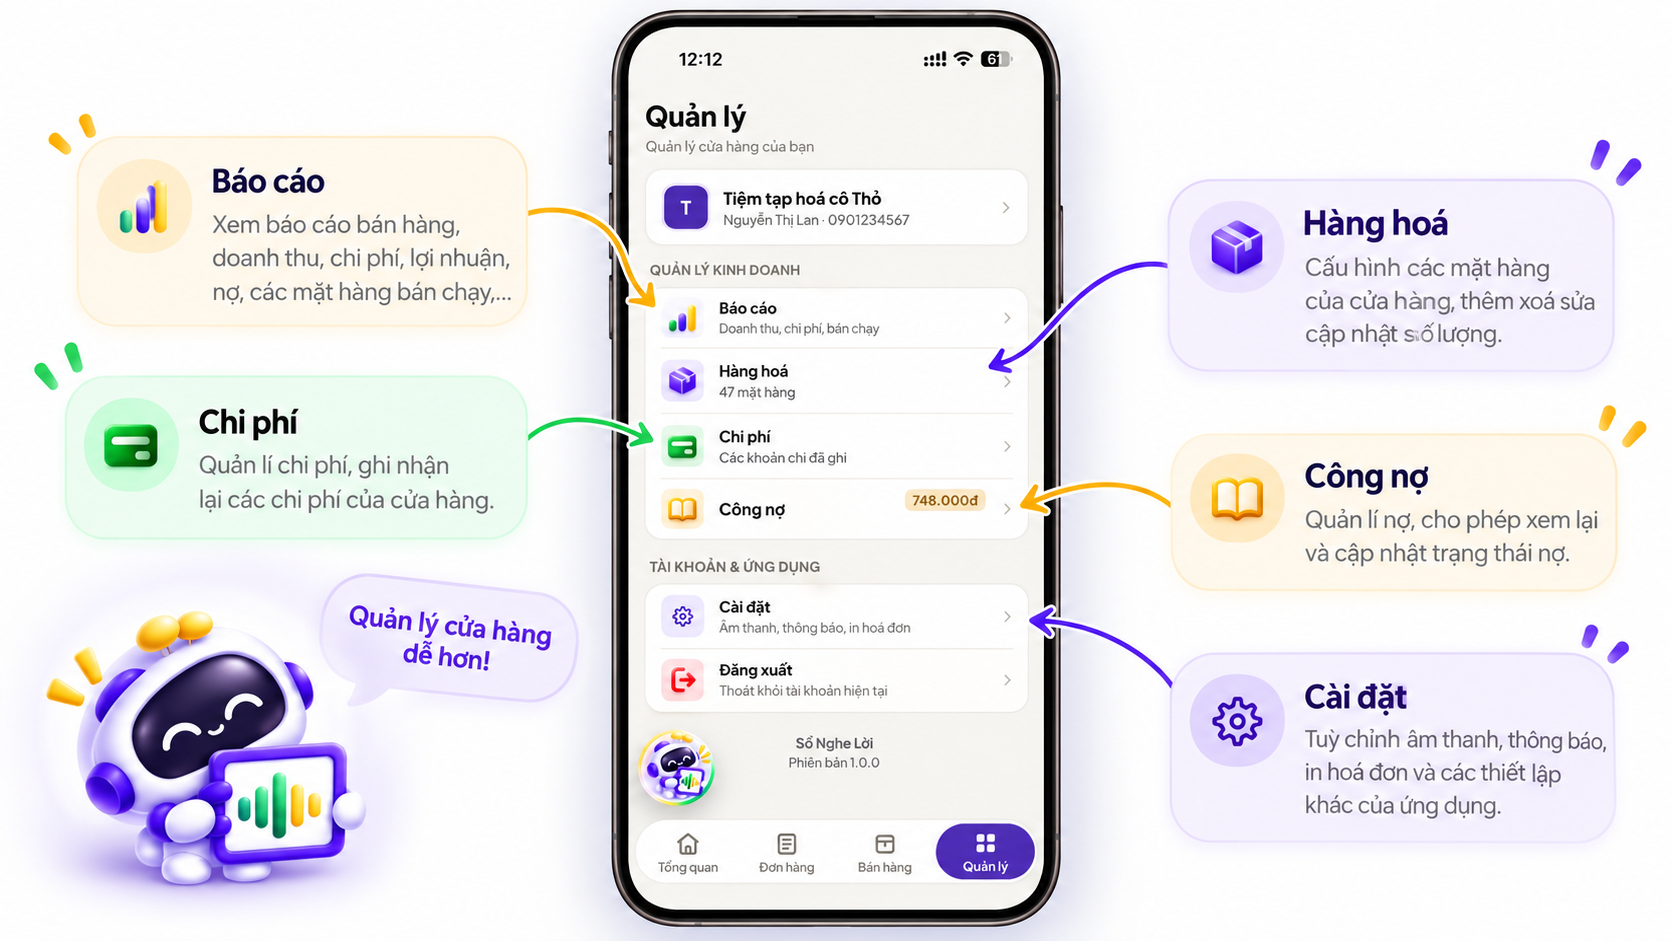
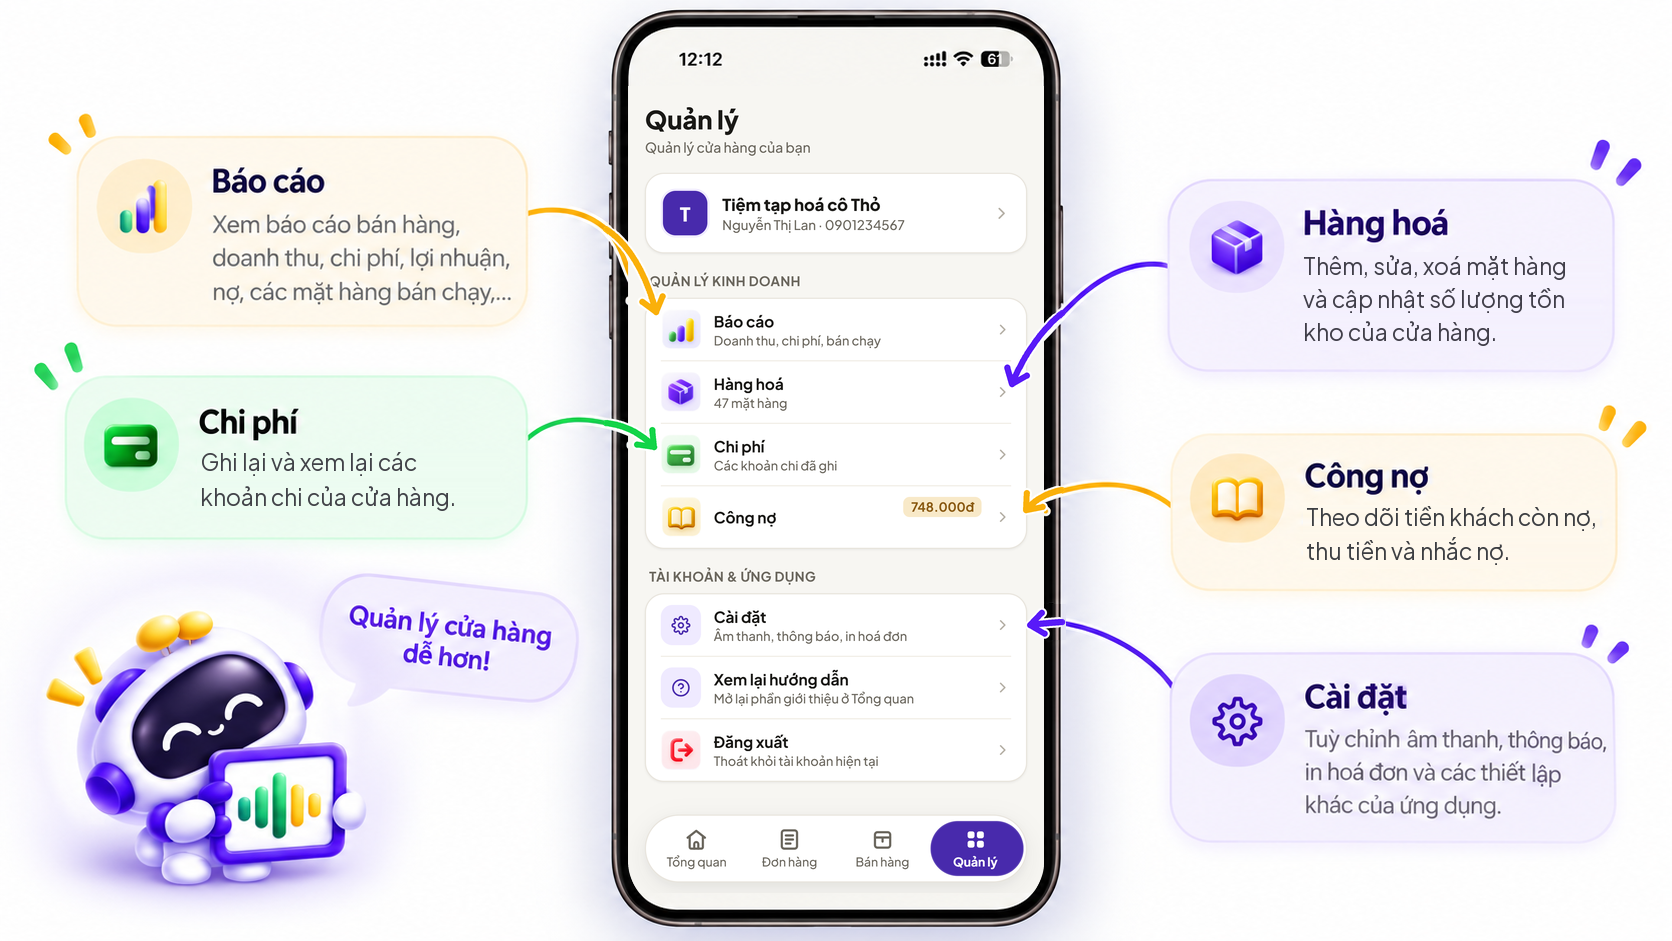
fix(mobile): match the sales and manage guide pictures to the app

diff --git a/frontend/mobile/src/components/AssistantIntroModal.tsx b/frontend/mobile/src/components/AssistantIntroModal.tsx
@@ -96,7 +96,7 @@ const steps: readonly {
     image: {
       source: require('../../assets/guide/guide-manage.png'),
       label:
-        'Hình minh hoạ tab Quản lý với các mục Báo cáo, Hàng hoá, Chi phí, Công nợ, Cài đặt và Đăng xuất',
+        'Hình minh hoạ tab Quản lý với các mục Báo cáo, Hàng hoá, Chi phí, Công nợ, Cài đặt, Xem lại hướng dẫn và Đăng xuất',
       ratio: 1672 / 941,
     },
     tone: colors.red,

diff --git a/PROGRESS.md b/PROGRESS.md
@@ -1,3 +1,11 @@
+### [2026-10-16 18:26 UTC+07:00] — [Fix] Guide pictures for Bán hàng and Quản lý match the app
+
+**Done:** In the guide pictures from #274, the Bán hàng phone highlighted "Quản lý" in the tab bar and its bar ran past the screen, and the Quản lý phone lacked the "Xem lại hướng dẫn" row (#257) while its notes had a garbled character in "số lượng" and wrote "Quản lí". The Quản lý phone screen is now a capture of the real tab from the mock web build (same sample shop and numbers), with the floating Bobi and the version line hidden; the arrows that ended inside the old screen are redrawn to the same rows, and the Hàng hoá, Chi phí and Công nợ notes are rewritten in Plus Jakarta Sans. The Bán hàng phone keeps its screen but gets the real tab bar with "Bán hàng" highlighted. Same 1672 × 941 size; the bobi and overview pictures are unchanged. The manage picture's accessibility label lists the new row.
+
+**Changed files:** `frontend/mobile/assets/guide/guide-manage.png`, `frontend/mobile/assets/guide/guide-sales.png`, `frontend/mobile/src/components/AssistantIntroModal.tsx` — modified; this entry.
+
+**Check:** Both pictures inspected at full size and zoomed at the edited areas (tab bar, arrow heads, rewritten notes). **Not verified:** how they look inside the guide on a phone.
+
 ### [2026-10-16 17:55 UTC+07:00] — [Mobile/AI] Tool step keeps its shimmer, screen button in brand purple, numbered lists
 
 **Done:** A tool step in `ThoughtLine` keeps its shimmer after the tool ends, because the model is still writing the reply; the running dot is gone and the tick sits after the label, so the label starts where the waiting phrase does. `suggest_screen` gets its own step label instead of the generic one. The screen-button card under a reply drops the "Mở nhanh" label and shows brand-purple buttons with a purple shadow. The shop agent prompt asks for numbered lists only, and the mock replies follow it.
